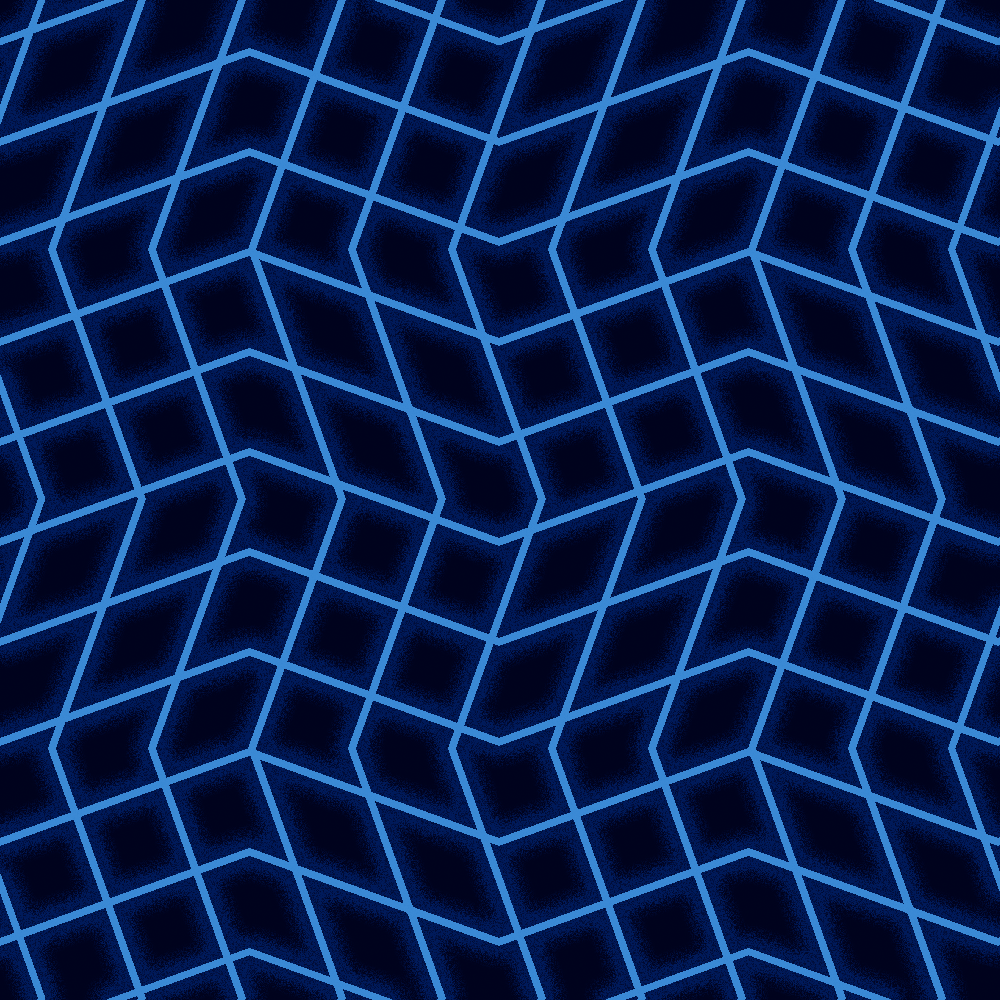
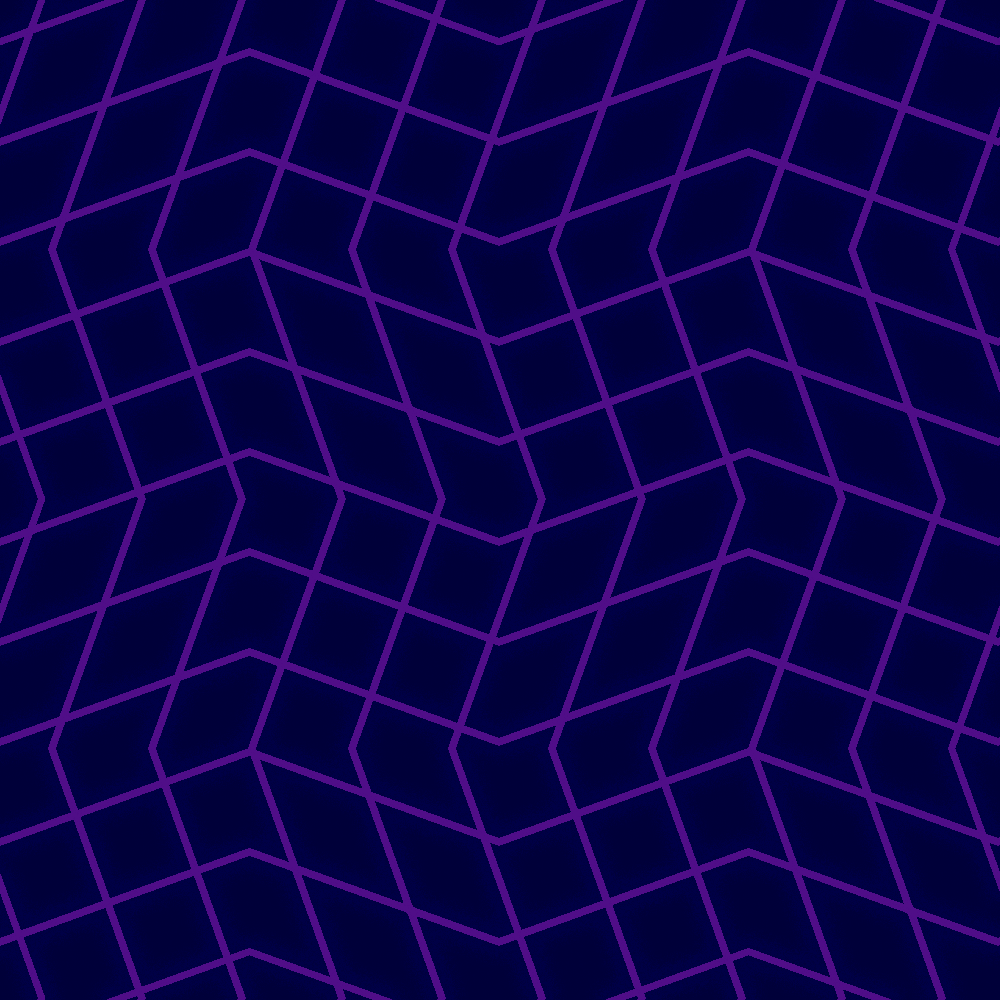
Changed background color to purple

diff --git a/css/style.css b/css/style.css
@@ -106,6 +106,6 @@ html, body {
 /*Light mode*/
 @media (prefers-color-scheme: light) {
     html, body {
-        background-image: url("background-light.png");
+        background-image: url("../background-light.png");
     }
 }
